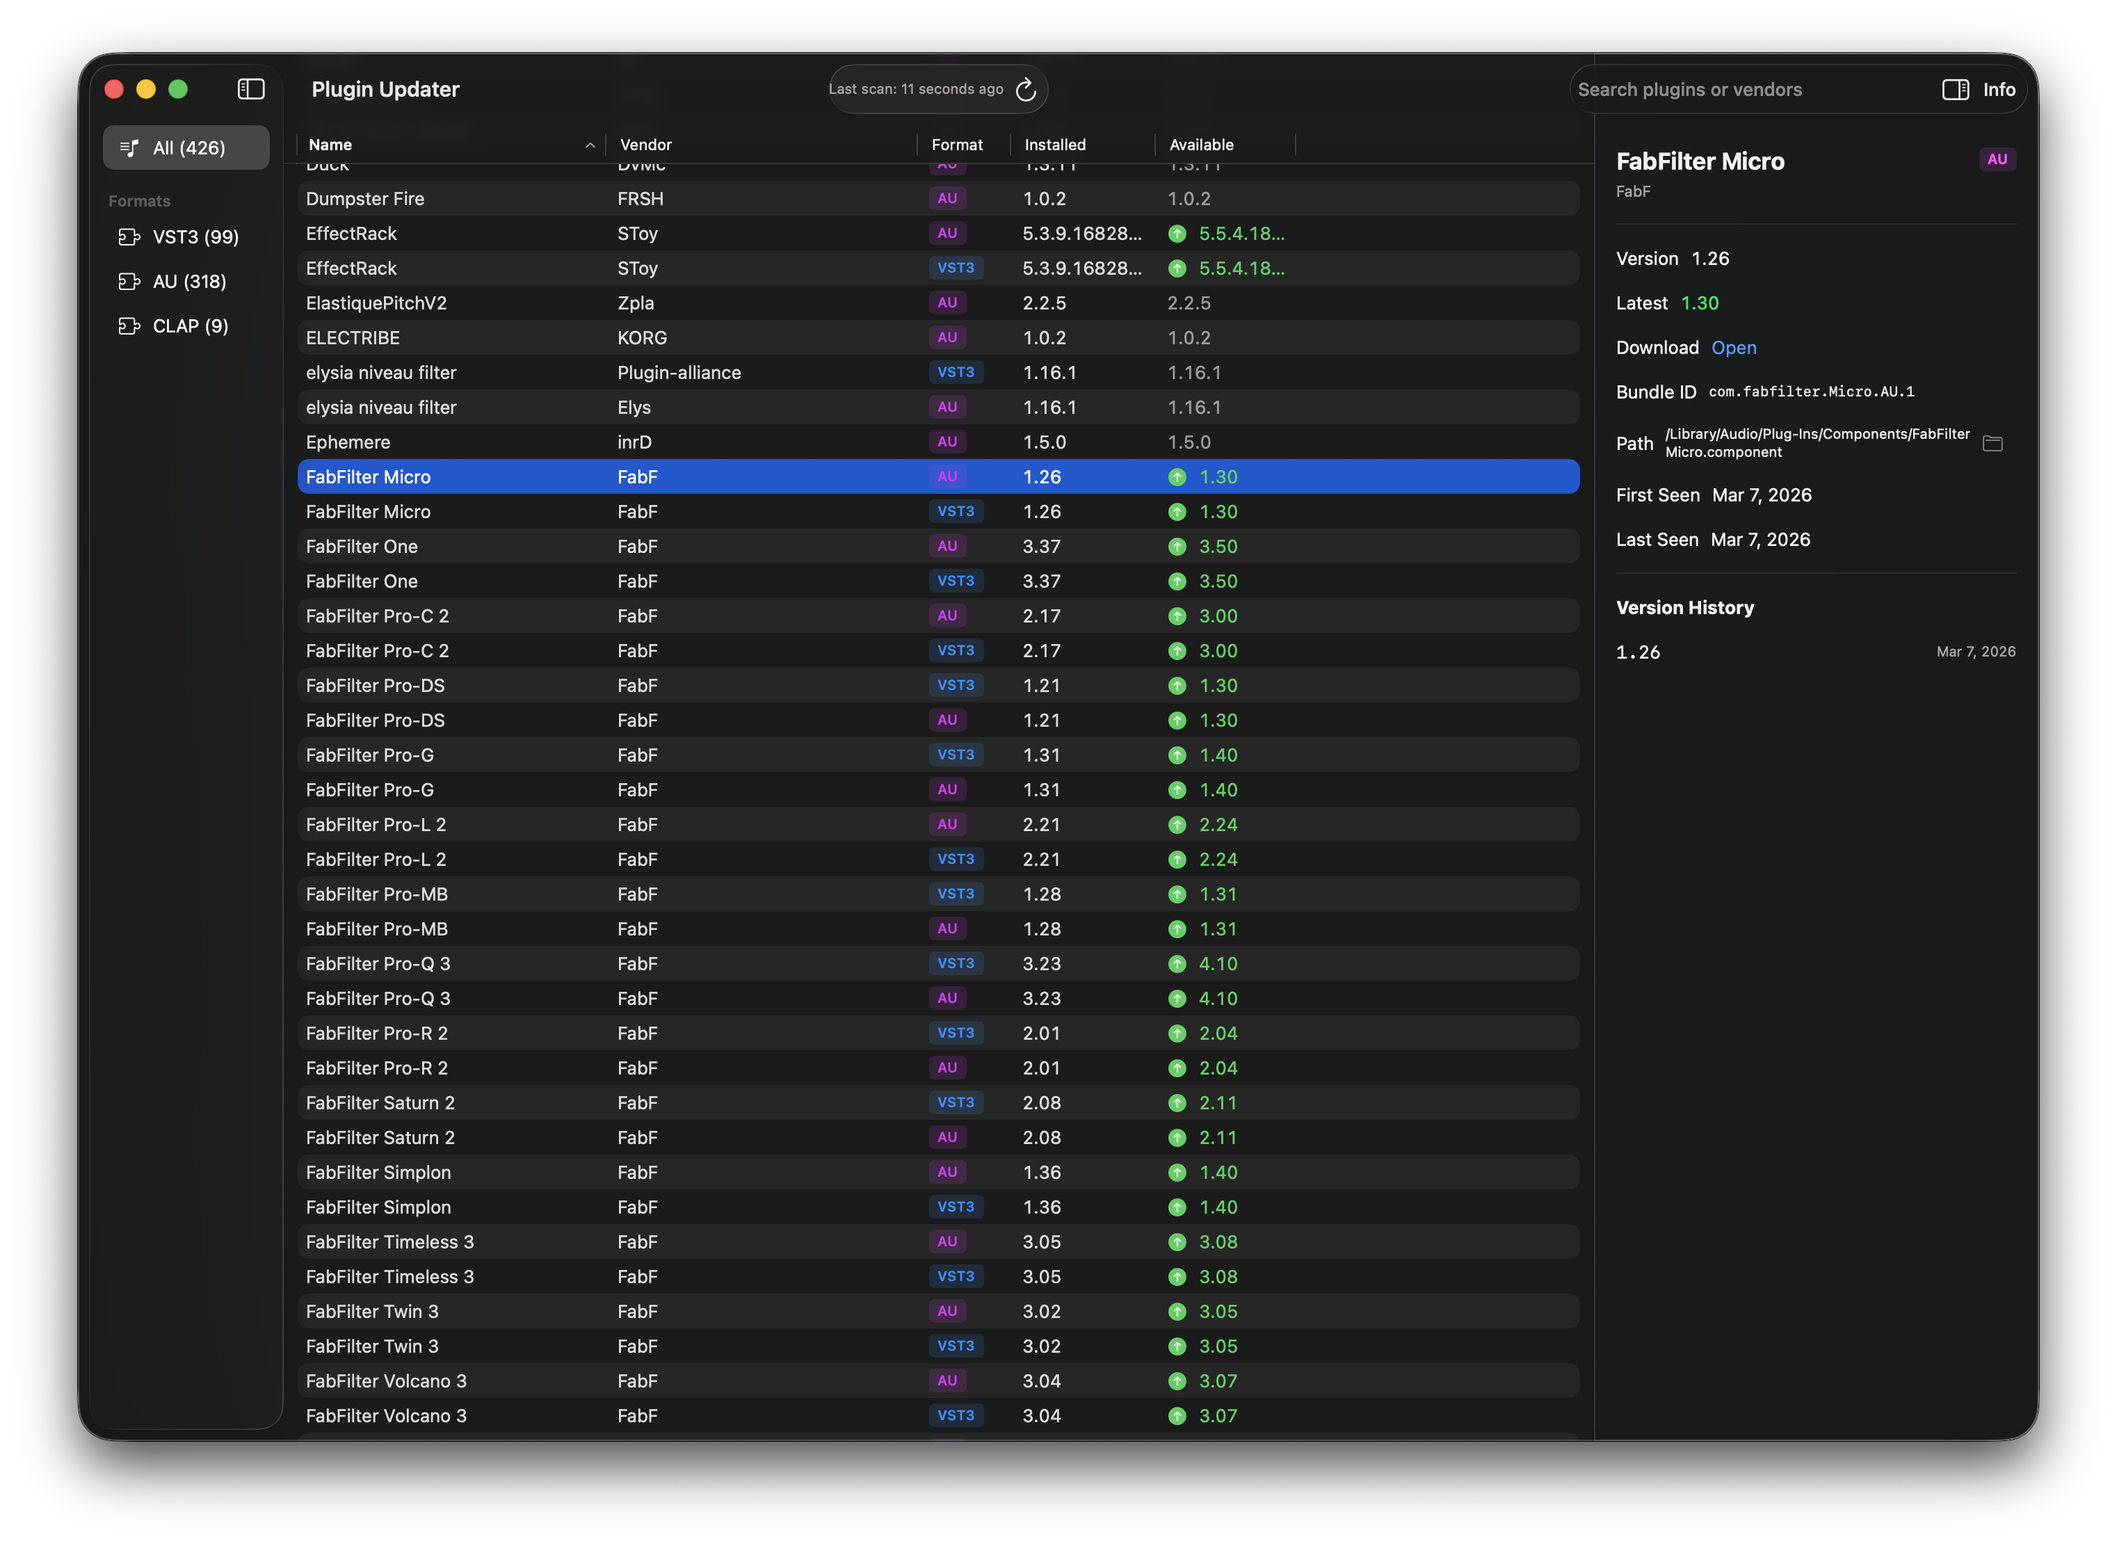
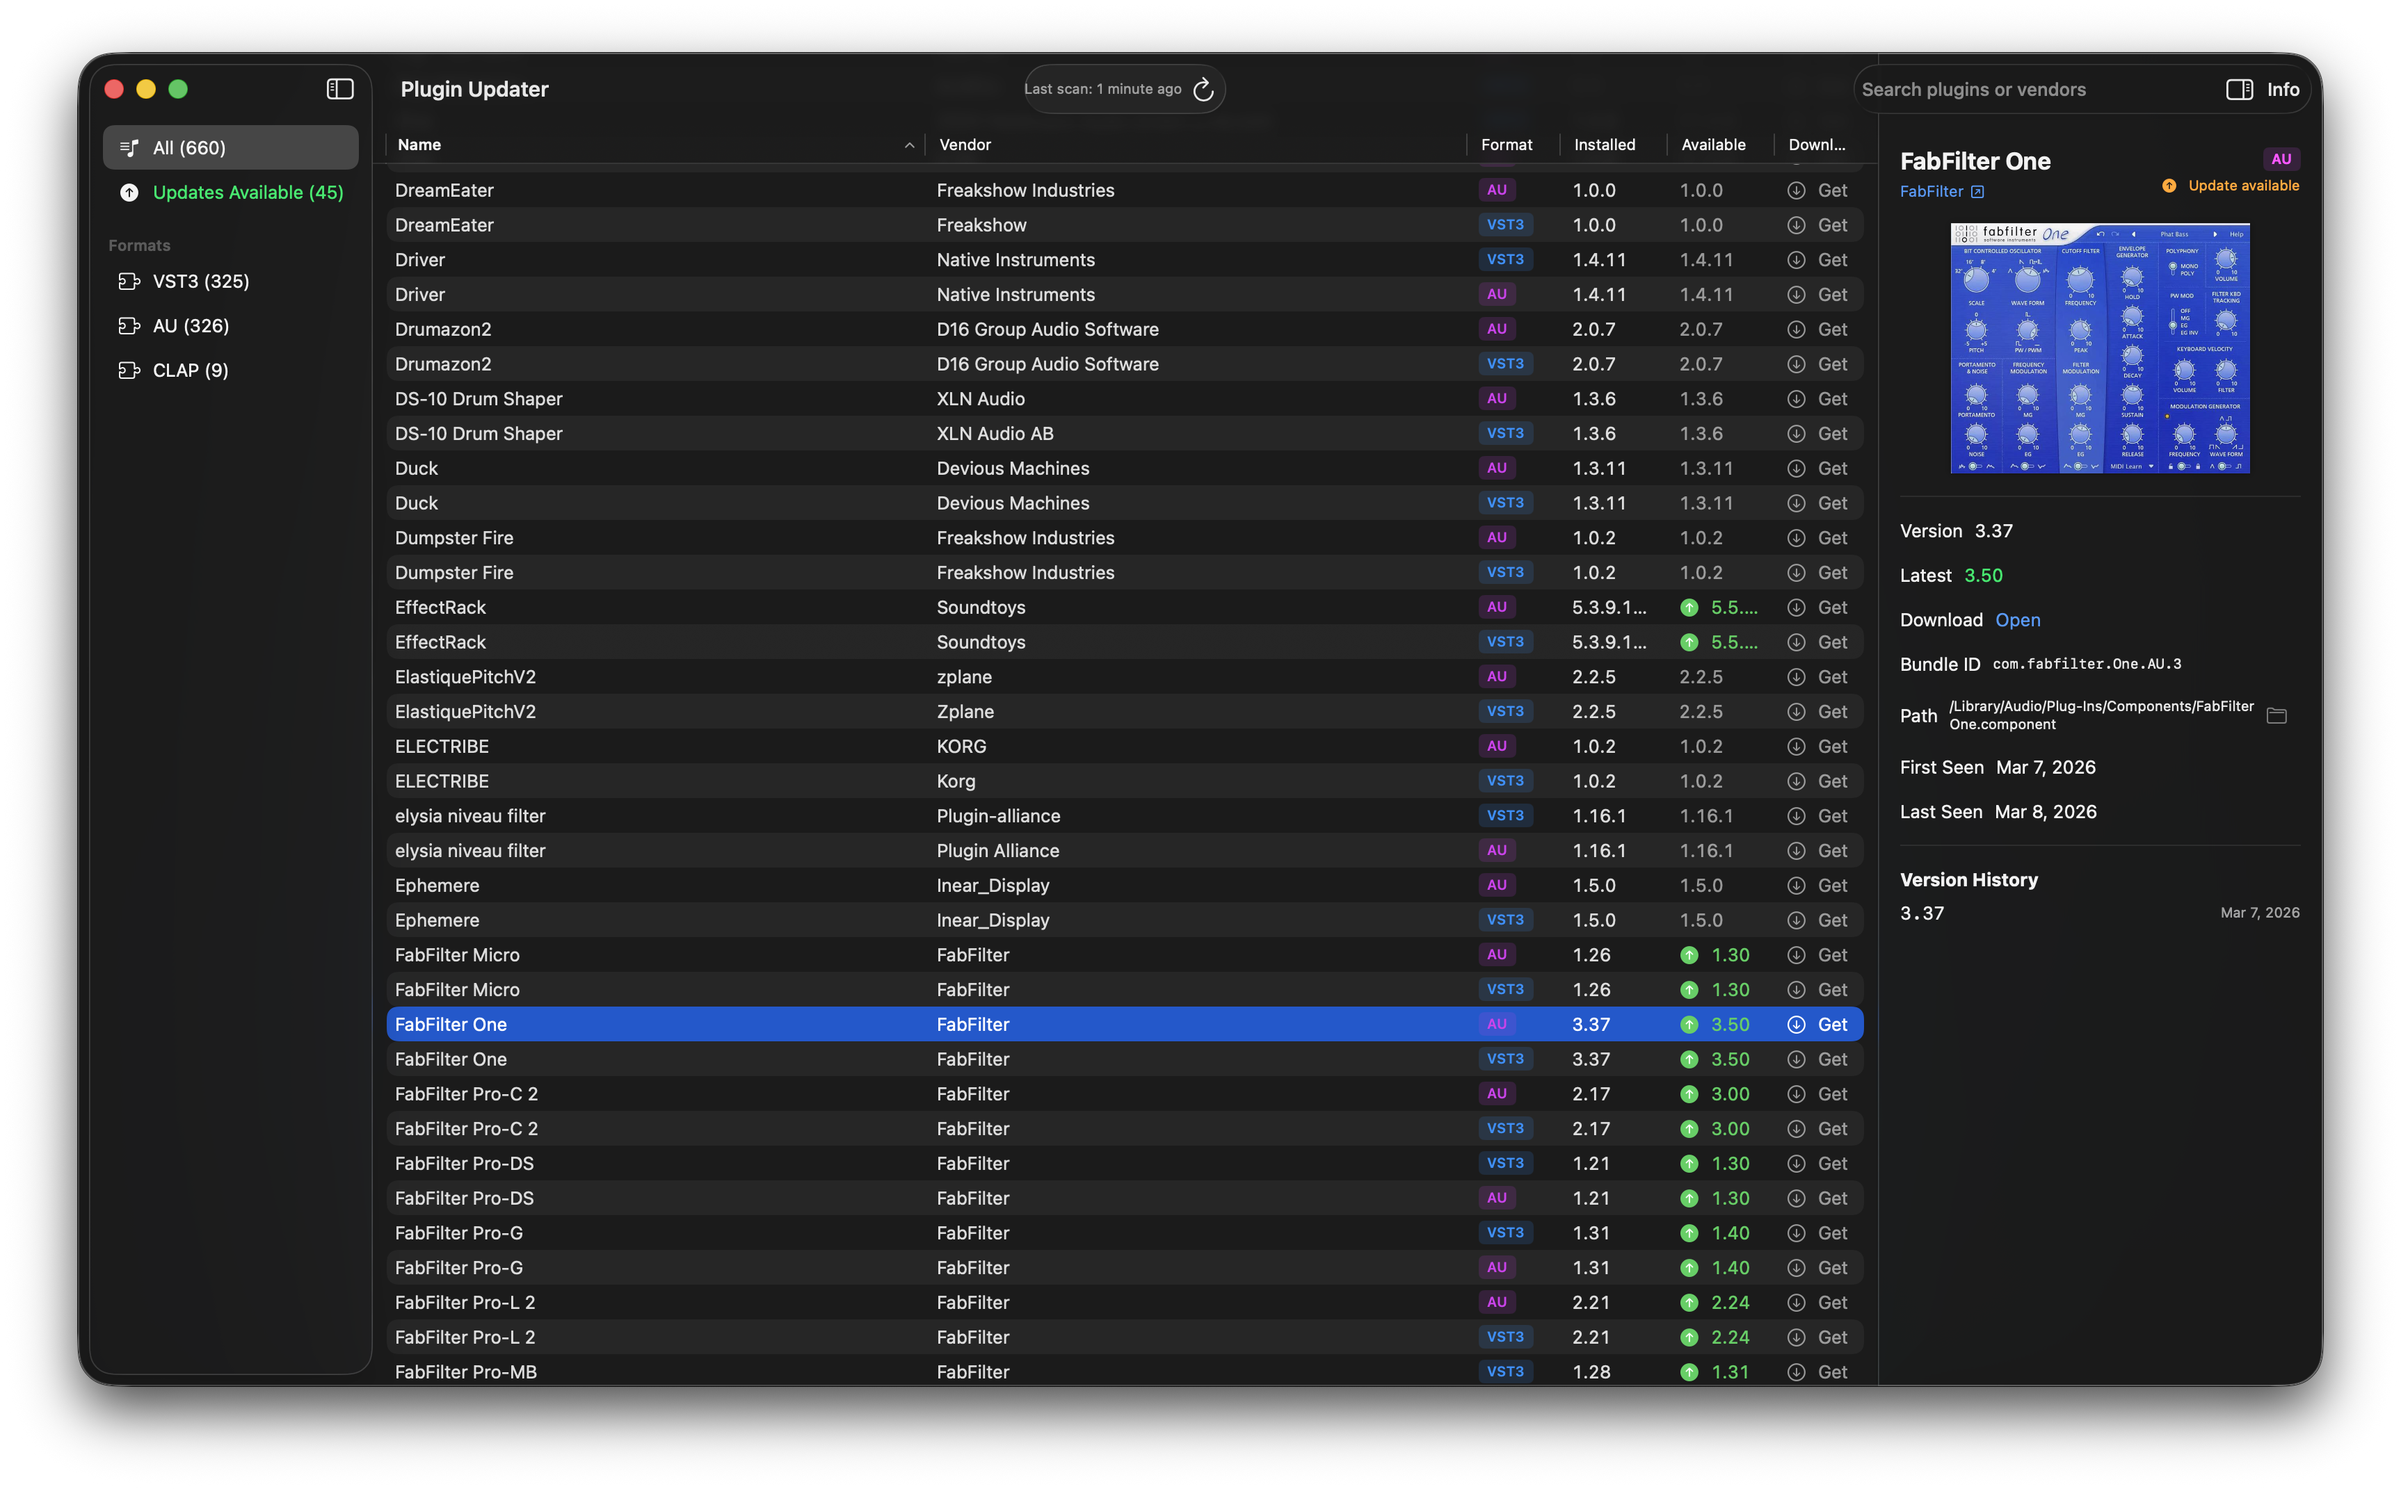
Add plugin image service, ATS fixes, and GitHub Actions feature-request workflow
Add PluginImageService for async plugin artwork fetching (bundle snapshots,
OG images, Bing search) with disk+memory caching. Upgrade all HTTP URLs to
HTTPS to satisfy App Transport Security. Add GitHub Actions workflow to
auto-implement feature requests labeled 'feature-request' via Claude Code.

diff --git a/PluginUpdater/PluginUpdater/Services/PluginImageService.swift b/PluginUpdater/PluginUpdater/Services/PluginImageService.swift
@@ -1,0 +1,273 @@
+import AppKit
+import Foundation
+
+/// Fetches and caches plugin product images from bundle resources or web search.
+/// Strategies (tried in order):
+/// 1. VST3 Snapshots directory (standard VST3 spec)
+/// 2. Large image files in bundle Resources
+/// 3. Open Graph image from vendor website
+/// 4. Bing Image Search
+actor PluginImageService {
+    static let shared = PluginImageService()
+
+    private let cacheDir: URL
+    private var memoryCache: [String: NSImage] = [:]
+    private var misses: Set<String> = []
+
+    private init() {
+        let appSupport = FileManager.default.urls(for: .applicationSupportDirectory, in: .userDomainMask).first!
+        cacheDir = appSupport.appendingPathComponent("PluginUpdater/PluginImages")
+        try? FileManager.default.createDirectory(at: cacheDir, withIntermediateDirectories: true)
+    }
+
+    /// Returns a product image for the plugin, checking local bundle then web sources.
+    func image(
+        pluginName: String,
+        vendorName: String,
+        bundleID: String,
+        pluginPath: String,
+        vendorURL: String? = nil
+    ) async -> NSImage? {
+        let key = cacheKey(for: bundleID)
+
+        if let cached = memoryCache[key] { return cached }
+        if misses.contains(key) { return nil }
+
+        // Disk cache
+        let cacheFile = cacheDir.appendingPathComponent("\(key).png")
+        if let img = loadFromDisk(cacheFile) {
+            memoryCache[key] = img
+            return img
+        }
+
+        // Strategy 1 & 2: Local bundle images
+        if let img = findLocalImage(pluginPath: pluginPath) {
+            return save(img, key: key, file: cacheFile)
+        }
+
+        // Strategy 3: OG image from vendor website (skip search URLs)
+        if let url = vendorURL, !url.contains("google.com/search") {
+            if let img = await fetchOGImage(from: url) {
+                return save(img, key: key, file: cacheFile)
+            }
+        }
+
+        // Strategy 4: Web image search
+        if let img = await webImageSearch(name: pluginName, vendor: vendorName) {
+            return save(img, key: key, file: cacheFile)
+        }
+
+        misses.insert(key)
+        return nil
+    }
+
+    // MARK: - Strategy 1 & 2: Local Bundle Images
+
+    private nonisolated func findLocalImage(pluginPath: String) -> NSImage? {
+        let bundleURL = URL(fileURLWithPath: pluginPath)
+        let fm = FileManager.default
+
+        // VST3 Snapshots directory (standard VST3 spec — plugin GUI screenshots)
+        let snapshotsDir = bundleURL.appendingPathComponent("Contents/Resources/Snapshots")
+        if let img = largestImage(in: snapshotsDir, fm: fm) {
+            return img
+        }
+
+        // Resources directory — look for large images (likely artwork, not tiny icons)
+        let resourcesDir = bundleURL.appendingPathComponent("Contents/Resources")
+        if let img = largestImage(in: resourcesDir, fm: fm, minSize: 10_000) {
+            return img
+        }
+
+        return nil
+    }
+
+    private nonisolated func largestImage(in directory: URL, fm: FileManager, minSize: Int = 0) -> NSImage? {
+        guard let files = try? fm.contentsOfDirectory(at: directory, includingPropertiesForKeys: [.fileSizeKey]) else {
+            return nil
+        }
+
+        let imageExtensions: Set<String> = ["png", "jpg", "jpeg", "tiff", "bmp"]
+        let best = files
+            .filter { imageExtensions.contains($0.pathExtension.lowercased()) }
+            .compactMap { url -> (URL, Int)? in
+                guard let size = try? url.resourceValues(forKeys: [.fileSizeKey]).fileSize,
+                      size >= minSize else { return nil }
+                return (url, size)
+            }
+            .max(by: { $0.1 < $1.1 })
+
+        if let best {
+            return NSImage(contentsOf: best.0)
+        }
+        return nil
+    }
+
+    // MARK: - Strategy 3: OG Image from Vendor Website
+
+    private func fetchOGImage(from urlString: String) async -> NSImage? {
+        // Upgrade HTTP to HTTPS to satisfy ATS policy
+        let secureString = urlString.hasPrefix("http://")
+            ? "https://" + urlString.dropFirst(7)
+            : urlString
+        guard let url = URL(string: secureString) else { return nil }
+
+        let config = URLSessionConfiguration.ephemeral
+        config.timeoutIntervalForRequest = 6
+        config.timeoutIntervalForResource = 10
+        let session = URLSession(configuration: config)
+
+        guard let (data, response) = try? await session.data(from: url),
+              let http = response as? HTTPURLResponse,
+              http.statusCode == 200,
+              let html = String(data: data, encoding: .utf8) else {
+            return nil
+        }
+
+        let patterns = [
+            #"<meta[^>]*property=["']og:image["'][^>]*content=["']([^"']+)["']"#,
+            #"<meta[^>]*content=["']([^"']+)["'][^>]*property=["']og:image["']"#,
+        ]
+
+        for pattern in patterns {
+            guard let regex = try? NSRegularExpression(pattern: pattern, options: .caseInsensitive),
+                  let match = regex.firstMatch(in: html, range: NSRange(html.startIndex..., in: html)),
+                  let range = Range(match.range(at: 1), in: html) else { continue }
+
+            var imageURLString = String(html[range])
+            if imageURLString.hasPrefix("http://") {
+                imageURLString = "https://" + imageURLString.dropFirst(7)
+            } else if imageURLString.hasPrefix("//") {
+                imageURLString = "https:" + imageURLString
+            } else if imageURLString.hasPrefix("/") {
+                if let host = url.host {
+                    imageURLString = "https://\(host)\(imageURLString)"
+                }
+            }
+
+            guard let imageURL = URL(string: imageURLString) else { continue }
+
+            if let (imgData, imgResp) = try? await session.data(from: imageURL),
+               let imgHTTP = imgResp as? HTTPURLResponse,
+               imgHTTP.statusCode == 200,
+               let img = NSImage(data: imgData),
+               img.size.width >= 50, img.size.height >= 50,
+               isReasonableAspectRatio(img) {
+                return img
+            }
+        }
+
+        return nil
+    }
+
+    // MARK: - Strategy 4: Web Image Search (Bing async endpoint)
+
+    private func webImageSearch(name: String, vendor: String) async -> NSImage? {
+        let query = "\(name) \(vendor) audio plugin"
+        guard let encoded = query.addingPercentEncoding(withAllowedCharacters: .urlQueryAllowed),
+              let searchURL = URL(string: "https://www.bing.com/images/async?q=\(encoded)&first=0&count=5&mmasync=1") else {
+            return nil
+        }
+
+        var request = URLRequest(url: searchURL, timeoutInterval: 10)
+        request.setValue(
+            "Mozilla/5.0 (Macintosh; Intel Mac OS X 10_15_7) AppleWebKit/605.1.15 (KHTML, like Gecko) Version/17.0 Safari/605.1.15",
+            forHTTPHeaderField: "User-Agent"
+        )
+        request.setValue("text/html", forHTTPHeaderField: "Accept")
+
+        guard let (data, response) = try? await URLSession.shared.data(for: request),
+              let http = response as? HTTPURLResponse,
+              http.statusCode == 200,
+              let html = String(data: data, encoding: .utf8) else {
+            return nil
+        }
+
+        // Try each candidate URL until one downloads successfully
+        let imageURLs = extractImageURLs(from: html)
+        for imageURL in imageURLs.prefix(3) {
+            var imgRequest = URLRequest(url: imageURL, timeoutInterval: 8)
+            imgRequest.setValue(
+                "Mozilla/5.0 (Macintosh; Intel Mac OS X 10_15_7) AppleWebKit/605.1.15",
+                forHTTPHeaderField: "User-Agent"
+            )
+
+            guard let (imgData, imgResp) = try? await URLSession.shared.data(for: imgRequest),
+                  let imgHTTP = imgResp as? HTTPURLResponse,
+                  imgHTTP.statusCode == 200,
+                  let img = NSImage(data: imgData),
+                  img.size.width >= 50, img.size.height >= 50,
+                  isReasonableAspectRatio(img) else {
+                continue
+            }
+            return img
+        }
+
+        return nil
+    }
+
+    private func extractImageURLs(from html: String) -> [URL] {
+        // Bing async endpoint encodes full-size image URLs as "murl" in HTML-entity-encoded JSON
+        let pattern = #"murl&quot;:&quot;(https?://[^&]+?)&quot;"#
+        guard let regex = try? NSRegularExpression(pattern: pattern) else { return [] }
+        let matches = regex.matches(in: html, range: NSRange(html.startIndex..., in: html))
+
+        var urls: [URL] = []
+        for match in matches {
+            guard let range = Range(match.range(at: 1), in: html) else { continue }
+            var urlString = String(html[range])
+                .replacingOccurrences(of: "&amp;", with: "&")
+
+            // Upgrade HTTP to HTTPS for ATS
+            if urlString.hasPrefix("http://") {
+                urlString = "https://" + urlString.dropFirst(7)
+            }
+
+            let lower = urlString.lowercased()
+            if lower.contains("favicon") || lower.contains("logo") || lower.contains("avatar") {
+                continue
+            }
+            if lower.contains("100x") || lower.contains("_thumb") || lower.contains("_small") {
+                continue
+            }
+
+            if let url = URL(string: urlString) {
+                urls.append(url)
+            }
+        }
+
+        return urls
+    }
+
+    // MARK: - Helpers
+
+    /// Rejects banners/strips (too wide) and tall slivers (too narrow).
+    private nonisolated func isReasonableAspectRatio(_ image: NSImage) -> Bool {
+        let w = image.size.width
+        let h = image.size.height
+        guard h > 0, w > 0 else { return false }
+        let ratio = w / h
+        return ratio >= 0.3 && ratio <= 4.0
+    }
+
+    private func cacheKey(for bundleID: String) -> String {
+        bundleID.replacingOccurrences(of: ".", with: "_")
+            .replacingOccurrences(of: "/", with: "_")
+            .replacingOccurrences(of: " ", with: "_")
+    }
+
+    private nonisolated func loadFromDisk(_ file: URL) -> NSImage? {
+        guard FileManager.default.fileExists(atPath: file.path) else { return nil }
+        return NSImage(contentsOf: file)
+    }
+
+    private func save(_ image: NSImage, key: String, file: URL) -> NSImage {
+        memoryCache[key] = image
+        if let tiff = image.tiffRepresentation,
+           let bitmap = NSBitmapImageRep(data: tiff),
+           let png = bitmap.representation(using: .png, properties: [:]) {
+            try? png.write(to: file)
+        }
+        return image
+    }
+}

diff --git a/PluginUpdater/PluginUpdater/Views/Detail/PluginDetailView.swift b/PluginUpdater/PluginUpdater/Views/Detail/PluginDetailView.swift
@@ -6,6 +6,9 @@ struct PluginDetailView: View {
     let plugin: Plugin
     let manifest: [String: UpdateManifestEntry]
 
+    @State private var pluginImage: NSImage?
+    @State private var imageLoaded = false
+
     private var manifestEntry: UpdateManifestEntry? {
         manifest[plugin.bundleIdentifier]
     }
@@ -32,6 +35,34 @@ struct PluginDetailView: View {
                             latestVersion: manifestEntry?.latestVersion
                         )
                     }
+                }
+
+                // Plugin image (loaded async from bundle or web)
+                HStack {
+                    Spacer()
+                    if let pluginImage {
+                        Image(nsImage: pluginImage)
+                            .resizable()
+                            .aspectRatio(contentMode: .fit)
+                            .frame(maxWidth: 280, maxHeight: 200)
+                            .cornerRadius(8)
+                            .shadow(radius: 3)
+                    } else if imageLoaded {
+                        VStack(spacing: 6) {
+                            Image(systemName: "photo")
+                                .font(.title2)
+                                .foregroundStyle(.tertiary)
+                            Text("No image found")
+                                .font(.caption)
+                                .foregroundStyle(.tertiary)
+                        }
+                        .frame(height: 60)
+                    } else {
+                        ProgressView()
+                            .controlSize(.small)
+                            .frame(height: 60)
+                    }
+                    Spacer()
                 }
 
                 Divider()
@@ -89,6 +120,18 @@ struct PluginDetailView: View {
                 VersionHistoryView(versions: plugin.versionHistory)
             }
             .padding()
+        }
+        .task(id: plugin.id) {
+            pluginImage = nil
+            imageLoaded = false
+            pluginImage = await PluginImageService.shared.image(
+                pluginName: plugin.name,
+                vendorName: plugin.vendorName,
+                bundleID: plugin.bundleIdentifier,
+                pluginPath: plugin.path,
+                vendorURL: manifestEntry?.downloadURL
+            )
+            imageLoaded = true
         }
     }
 }
